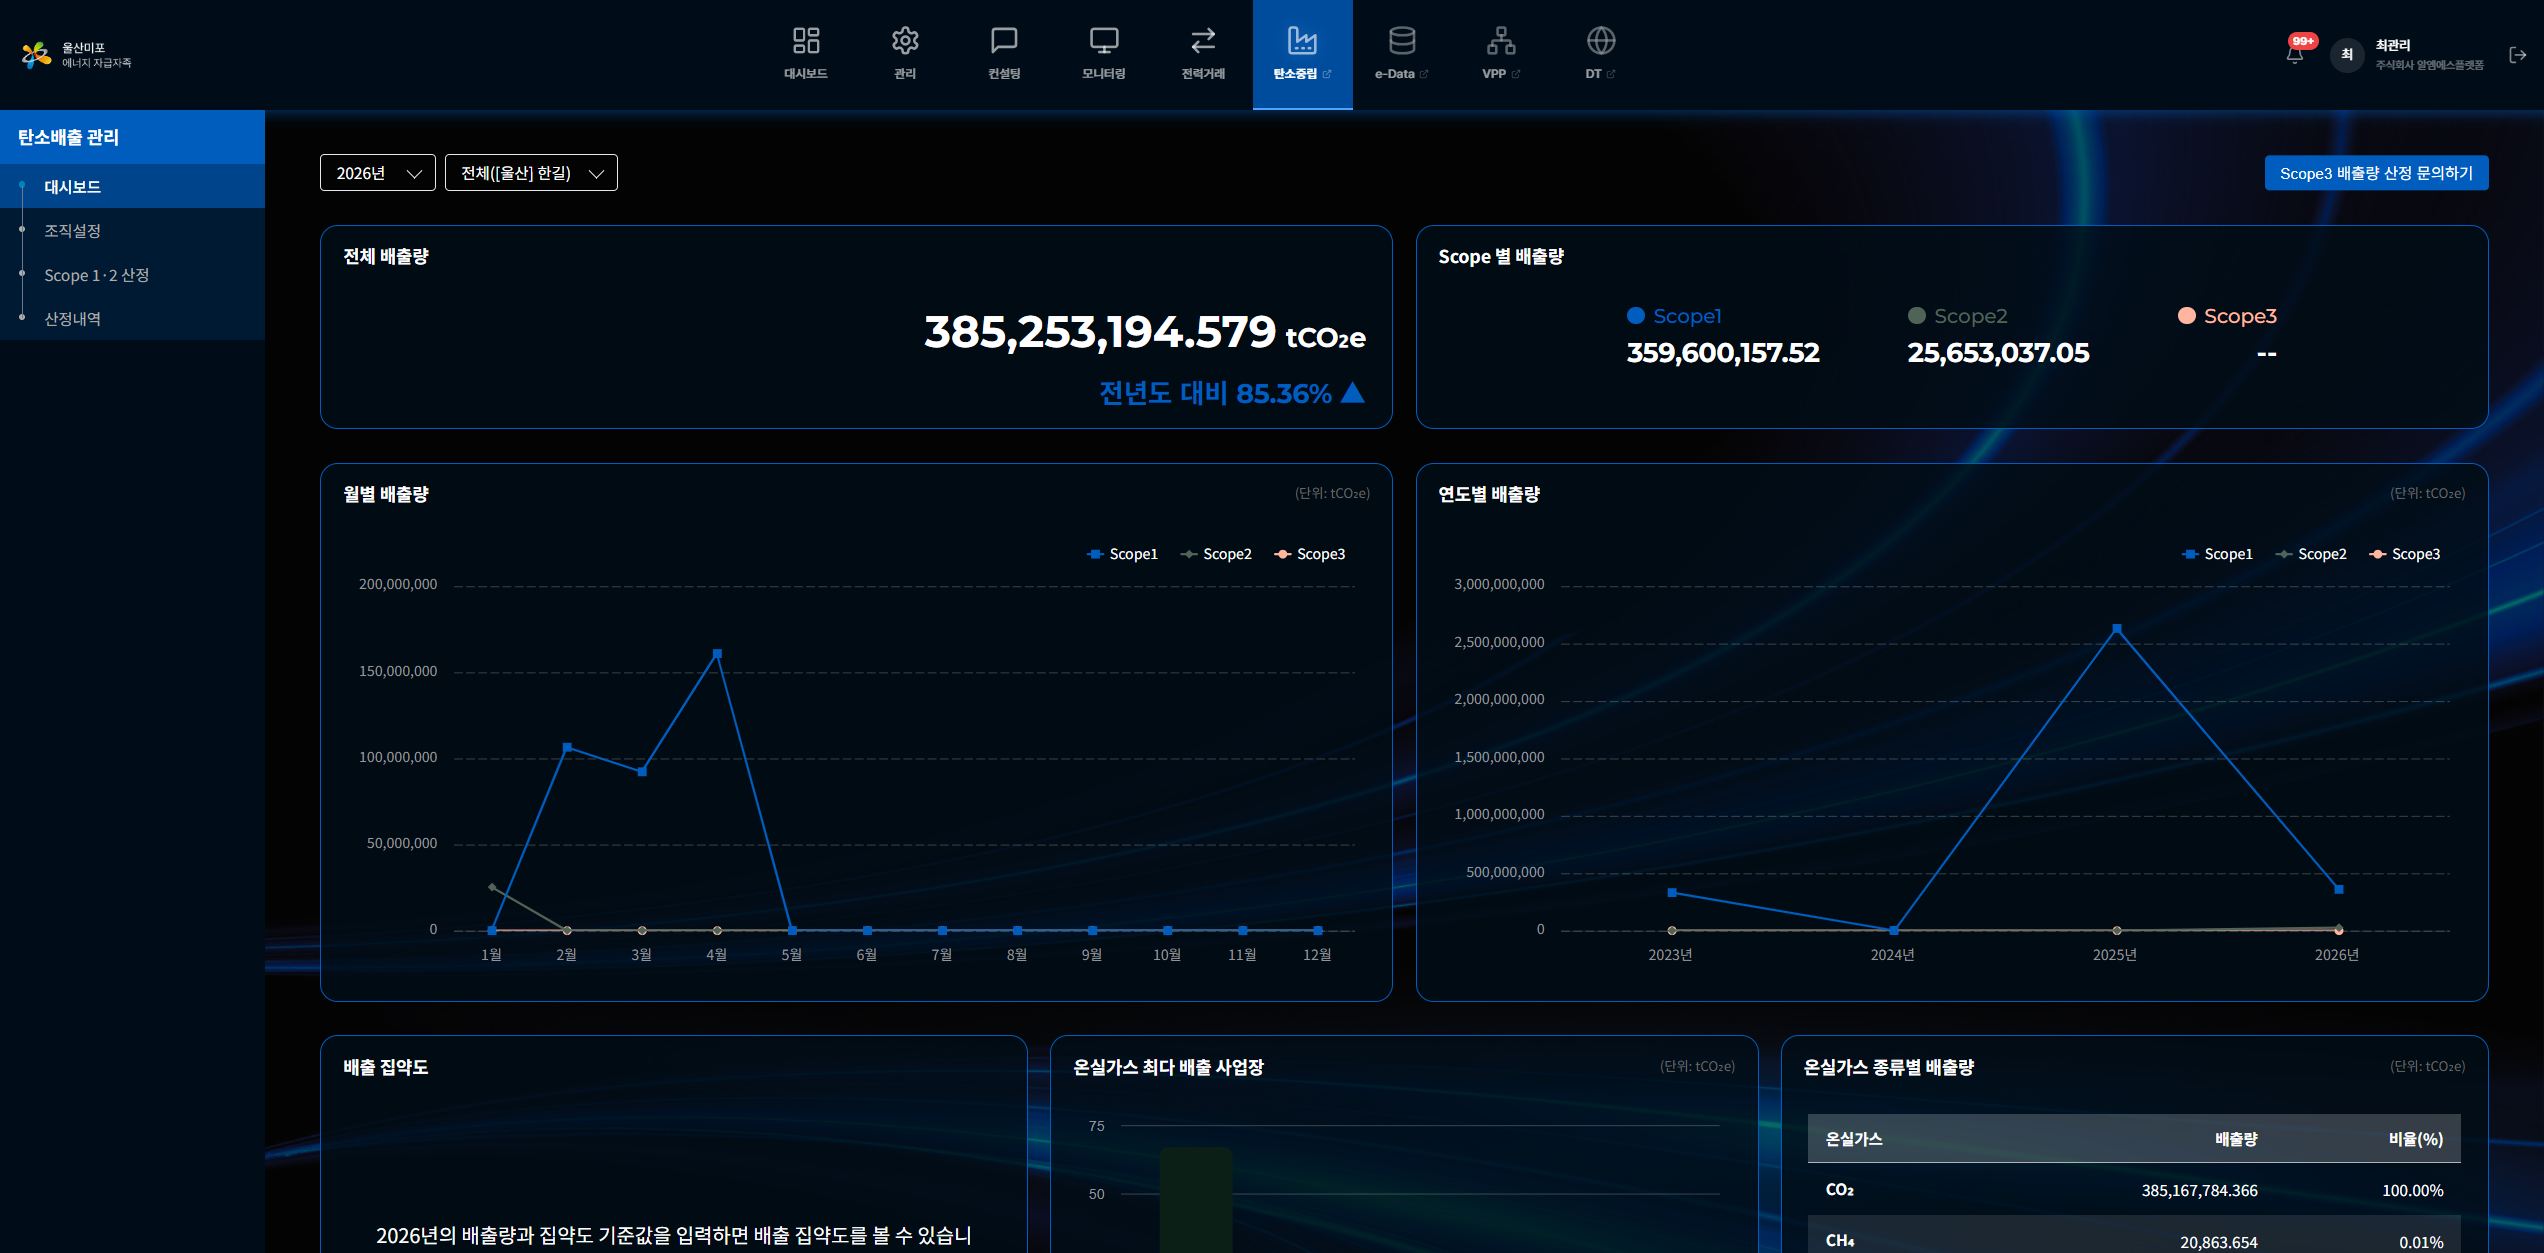
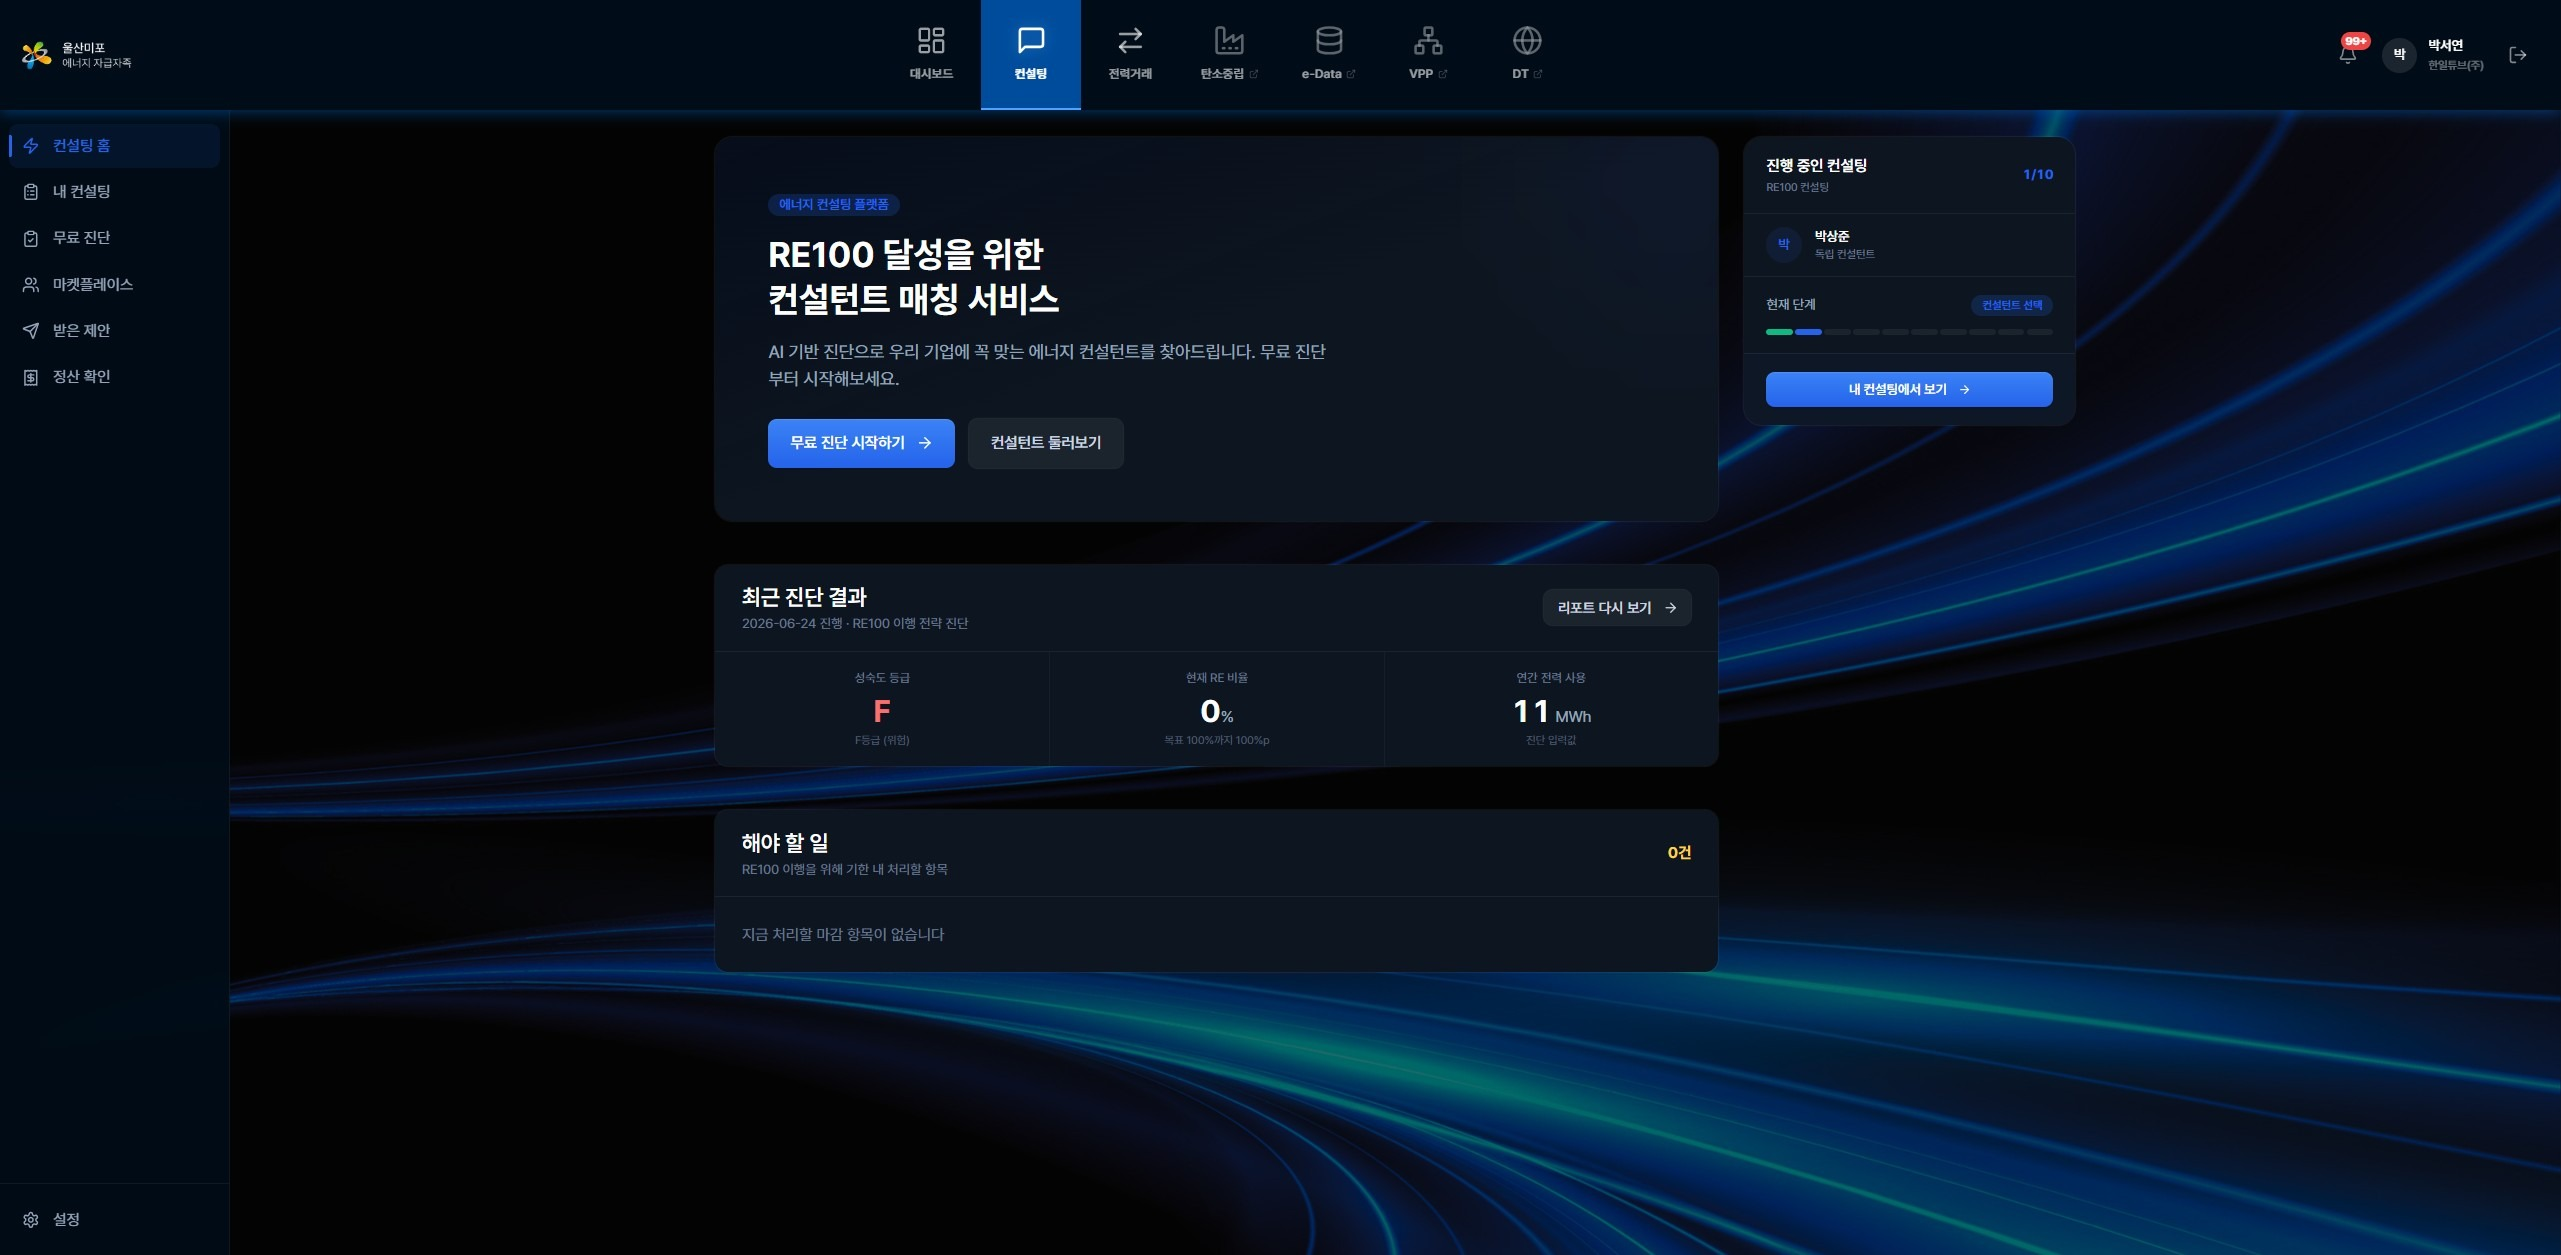
260730_midterm — 간트 3차년도 반영·막대 굵게 · 3p 정렬/비중 조정·이월 스트라이프 · 플랫폼 사진 교체
- 2p: 태양광 구축(2차모집대상)을 운영 위 겹침으로, 운영은 구축(1차) 끝까지 연결(틈 제거)
  플랫폼 구축(개발)은 3차년도 말까지, EV 구축은 3차년도 초 완료 후 운영+구축(증설) 겹침
  막대 두께 1.58→2.05vw · 라벨 글자 확대 (남는 세로 공간 활용)
- 3p: 우측 패널 헤더를 좌측 헤더 행과 같은 규격(kp-hd)으로 — 가로줄 어긋남 해소
  태양광 행 확대(1.85) · ORC/EV 축소(0.85) 좌우 동일 비율,
  자가소비형·전력거래형 게이지 미달분을 EV와 같은 추진 중 스트라이프로 표시
- 5p: 플랫폼 두 번째 사진을 탄소관리 → 컨설팅 화면으로 교체

diff --git a/src/app/(main)/ulsan-energy/260730_midterm/page.tsx b/src/app/(main)/ulsan-energy/260730_midterm/page.tsx
@@ -115,9 +115,10 @@ const CSS = `
 .g-flex1{flex:1;min-width:0}
 .g-stack{position:relative;flex:1;min-width:0;display:flex;flex-direction:column;gap:.26vw}
 /* 트랙 배경 없음 — 원본처럼 흰 바탕 위 컬러 막대만. 연차 경계는 g-vline(세로 헤어라인) */
-.g-track{position:relative;height:1.58vw}
+/* 세로 여백이 남으므로 막대를 굵게 — 가독성 */
+.g-track{position:relative;height:2.05vw}
 .g-vline{position:absolute;top:-.3vw;bottom:0;width:0;border-left:1px solid var(--hair);z-index:0}
-.g-seg{position:absolute;top:0;bottom:0;border-radius:6px;display:flex;align-items:center;justify-content:center;font-size:.63vw;font-weight:700;white-space:nowrap;overflow:hidden;padding:0 .35vw;letter-spacing:-.01em}
+.g-seg{position:absolute;top:0;bottom:0;border-radius:6px;display:flex;align-items:center;justify-content:center;font-size:.7vw;font-weight:700;white-space:nowrap;overflow:hidden;padding:0 .35vw;letter-spacing:-.01em}
 .g-seg.plan{background:#dbe7f8;color:#2c4f96}
 .g-seg.build{background:linear-gradient(90deg,#1d4ed8,#3b82f6);color:#fff}
 .g-seg.run{background:#0f2a5f;color:#cfe0fb}
@@ -129,7 +130,7 @@ const CSS = `
 .g-mark:after{content:"";position:absolute;top:100%;left:50%;transform:translateX(-50%);border:.22vw solid transparent;border-top-color:#ef4444}
 .g-dots{position:absolute;top:50%;border-top:2px dotted #b6c2d6;z-index:1}
 /* 계약 체결 — 중요도 낮음: 티 안 나는 옅은 톤 (구축 막대가 주인공) */
-.g-cross{position:absolute;top:4%;bottom:4%;border-radius:6px;background:#e7eef9;color:#64748b;display:flex;align-items:center;justify-content:center;font-size:.66vw;font-weight:700;z-index:2}
+.g-cross{position:absolute;top:4%;bottom:4%;border-radius:6px;background:#e7eef9;color:#64748b;display:flex;align-items:center;justify-content:center;font-size:.7vw;font-weight:700;z-index:2}
 .g-now{position:absolute;top:-.35vw;bottom:-.1vw;width:0;border-left:2px dashed #f59e0b;z-index:3;left:63.5%}
 .g-now:after{content:"현재";position:absolute;bottom:-1.3vw;left:50%;transform:translateX(-50%);background:#f59e0b;color:#fff;font-size:.62vw;font-weight:800;border-radius:999px;padding:.08vw .55vw;white-space:nowrap}
 .g-legend{display:flex;gap:1vw;justify-content:flex-end;margin-top:.9vw}
@@ -166,7 +167,8 @@ const CSS = `
 
 /* 우측 — 성과지표 게이지 패널: 행 높이 비율을 좌측(.exp-r)과 동일하게 맞춰 가로줄 정렬 */
 .kpanel{border:1px solid var(--hair);border-radius:14px;background:#f7f9fc;padding:.2vw 1.15vw .4vw;display:flex;flex-direction:column}
-.kpanel .block-label{margin-bottom:0;padding:.5vw 0 .35vw}
+/* 패널 헤더 — 좌측 표 헤더 행(.exp-r.hd)과 같은 규격(같은 높이)으로 가로줄 일치 */
+.kp-hd{padding:.5vw 0 .3vw;font-size:.64vw;color:var(--muted);font-weight:800;letter-spacing:.1em}
 .krow{display:flex;flex-direction:column;justify-content:center;gap:.55vw;border-top:1px solid var(--hair);min-height:0;padding:.35vw 0;flex:1}
 .kg{display:flex;flex-direction:column;gap:.3vw}
 .kg-head{display:flex;justify-content:space-between;align-items:baseline;gap:.6vw}
@@ -179,6 +181,8 @@ const CSS = `
 .kg-fill{position:absolute;top:0;bottom:0;left:0;border-radius:6px;background:linear-gradient(90deg,#1d4ed8,#3b82f6)}
 .kg-fill.full{background:linear-gradient(90deg,#1d4ed8,#3b82f6)}
 .kg-bar.wip{background:repeating-linear-gradient(-45deg,#cfdff9 0 .5vw,#e9f1fd .5vw 1vw);background-size:1.42vw 100%;animation:crawl 1.1s linear infinite}
+/* 미달(이월 추진 중) 잔여분 — 아래 EV 행과 같은 스트라이프로 칠한다 */
+.kg-rest{position:absolute;top:0;bottom:0;right:0;background:repeating-linear-gradient(-45deg,#cfdff9 0 .5vw,#e9f1fd .5vw 1vw);background-size:1.42vw 100%;animation:crawl 1.1s linear infinite}
 @keyframes crawl{to{background-position:1.42vw 0}}
 .kg-note{color:var(--muted);font-size:.66vw;line-height:1.5}
 /* 상태 칩 — 달성(파랑 채움) / 추진 중(틴트) — 좌측 경과 행과 톤 통일 */
@@ -393,6 +397,7 @@ function Gauge({
   chip,
   chipKind,
   wip,
+  restWip,
 }: {
   b: string
   s: string
@@ -403,6 +408,8 @@ function Gauge({
   chipKind?: 'done' | 'ing'
   /** 유찰 등 — 수치 주장 없이 스트라이프 */
   wip?: boolean
+  /** 미달 잔여분을 추진 중 스트라이프로 칠한다 (이월 목표) */
+  restWip?: boolean
 }) {
   const full = pct === 100
   return (
@@ -415,6 +422,7 @@ function Gauge({
         {val && <span className={`kg-val${full ? ' full' : ''}`}>{val}</span>}
       </div>
       <div className={`kg-bar${wip ? ' wip' : ''}`}>
+        {!wip && restWip && <span className="kg-rest" style={{ left: `${pct}%` }} />}
         {!wip && <span className={`kg-fill${full ? ' full' : ''}`} style={{ width: `${pct}%` }} />}
       </div>
       {chip && <span className={`kg-chip ${chipKind ?? 'ing'}`}>{chip}</span>}
@@ -688,8 +696,8 @@ const SLIDES: ReactNode[] = [
             segs={[
               { l: 0, w: 35.5, t: '대상지 선정 & 설계', tone: 'plan' },
               { l: 35.5, w: 7.2, t: '구축(1차)', tone: 'build' },
-              { l: 47.5, w: 19.1, t: '구축(2차모집대상)', tone: 'build' },
-              { l: 66.6, w: 33.4, t: '운영', tone: 'run' },
+              { l: 42.7, w: 57.3, t: '운영', tone: 'run' },
+              { l: 47.5, w: 19.1, t: '구축(2차모집대상)', tone: 'float' },
               { l: 74, w: 16, t: '구축(3차모집대상)', tone: 'float' },
             ]}
           />
@@ -702,8 +710,8 @@ const SLIDES: ReactNode[] = [
             b="ESG 에너지 플랫폼"
             segs={[
               { l: 0, w: 33.1, t: '분석 & 설계', tone: 'plan' },
-              { l: 33.1, w: 23.9, t: '구축(개발)', tone: 'build' },
-              { l: 57, w: 43, t: '운영 및 고도화', tone: 'run' },
+              { l: 33.1, w: 38.2, t: '구축(개발)', tone: 'build' },
+              { l: 71.3, w: 28.7, t: '운영 및 고도화', tone: 'run' },
             ]}
           />
         </div>
@@ -727,9 +735,9 @@ const SLIDES: ReactNode[] = [
             segs={[
               { l: 0, w: 23.6, t: '분석 & 검토', tone: 'plan' },
               { l: 23.6, w: 9.5, t: '설계', tone: 'plan' },
-              { l: 33.1, w: 35.9, t: '구축', tone: 'build' },
-              { l: 69, w: 31, t: '운영', tone: 'run' },
-              { l: 73, w: 13, t: '구축(증설)', tone: 'float' },
+              { l: 33.1, w: 14.4, t: '구축', tone: 'build' },
+              { l: 47.5, w: 52.5, t: '운영', tone: 'run' },
+              { l: 62, w: 15, t: '구축(증설)', tone: 'float' },
             ]}
           />
         </div>
@@ -809,7 +817,7 @@ const SLIDES: ReactNode[] = [
           </div>
         </div>
         {/* 태양광 — 우측 지표(자가소비/전력거래)와 좌우 범위가 맞도록 유형 분리 */}
-        <div className="exp-r" style={{ flex: 1.55 }}>
+        <div className="exp-r" style={{ flex: 1.85 }}>
           <div className="exp-name">
             <span className="exp-cat">신재생에너지 인프라</span>
             <b>태양광 발전</b>
@@ -874,6 +882,7 @@ const SLIDES: ReactNode[] = [
           }
         />
         <ExpRow
+          grow={0.85}
           cat="탄소저감 지원"
           name="ORC 발전시설"
           sub="울산미포ORC발전"
@@ -890,6 +899,7 @@ const SLIDES: ReactNode[] = [
           }
         />
         <ExpRow
+          grow={0.85}
           cat="탄소저감 지원"
           name="양방향 EV충전"
           sub="울산테크노파크"
@@ -909,18 +919,17 @@ const SLIDES: ReactNode[] = [
 
       {/* 우 1/3 — 원본 8p 성과지표 달성률: 행 높이 비율을 좌측과 동일하게(가로줄 정렬) */}
       <div className="kpanel">
-        <div className="block-label">
-          <b>성과지표 검토 (2차년도)</b>
-        </div>
+        <div className="kp-hd">성과지표 검토 (2차년도)</div>
         <div className="krow" style={{ flex: 1.55 }}>
           <Gauge b="연료전지발전" s="롯데SK에너루트" pct={100} val="19.8 / 19.8 MW" chip="달성 100%" chipKind="done" />
         </div>
-        <div className="krow" style={{ flex: 1.55 }}>
+        <div className="krow" style={{ flex: 1.85 }}>
           <Gauge
             b="태양광 · 자가소비형"
             s="에스에너지"
             pct={64}
             val="0.58 / 0.9 MW"
+            restWip
             chip="이월 목표 0.32MW 추진 중"
             chipKind="ing"
           />
@@ -929,6 +938,7 @@ const SLIDES: ReactNode[] = [
             s="에스에너지"
             pct={37}
             val="0.33 / 0.9 MW"
+            restWip
             chip="이월 목표 0.57MW 추진 중"
             chipKind="ing"
           />
@@ -936,7 +946,7 @@ const SLIDES: ReactNode[] = [
         <div className="krow" style={{ flex: 1.45 }}>
           <Gauge b="ESG 에너지 플랫폼 구축률" s="알엠에쓰플렛폼" pct={100} val="35 / 35%" chip="달성 100%" chipKind="done" />
         </div>
-        <div className="krow">
+        <div className="krow" style={{ flex: 0.85 }}>
           <div className="kg dim">
             <div className="kg-head">
               <b>
@@ -948,7 +958,7 @@ const SLIDES: ReactNode[] = [
             <div className="kg-note">2차년도 목표 없음 — 3차년도 1.8MW 구축 목표</div>
           </div>
         </div>
-        <div className="krow">
+        <div className="krow" style={{ flex: 0.85 }}>
           <Gauge
             b="양방향 EV 충전기"
             s="울산테크노파크"
